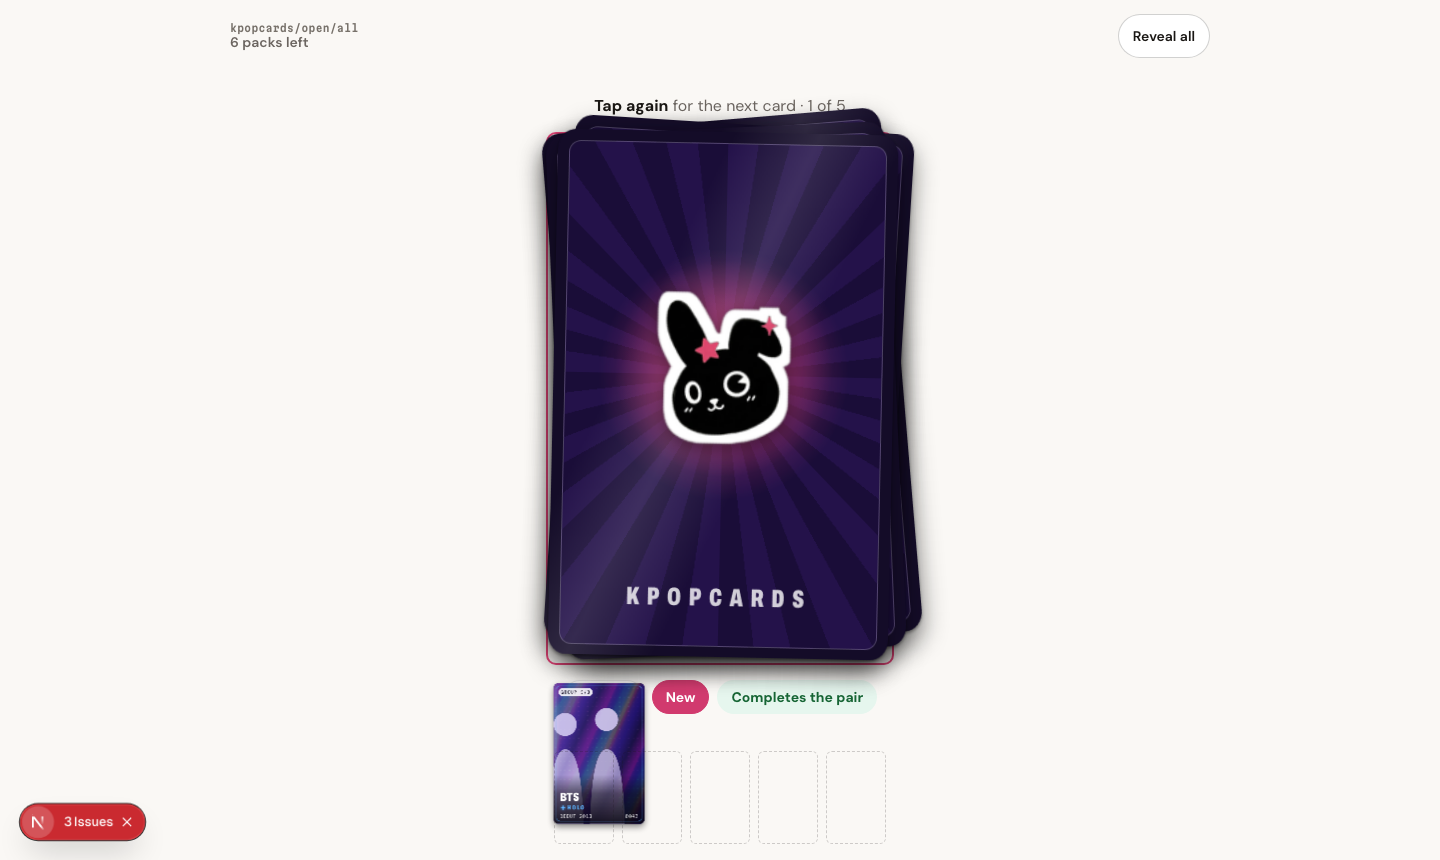
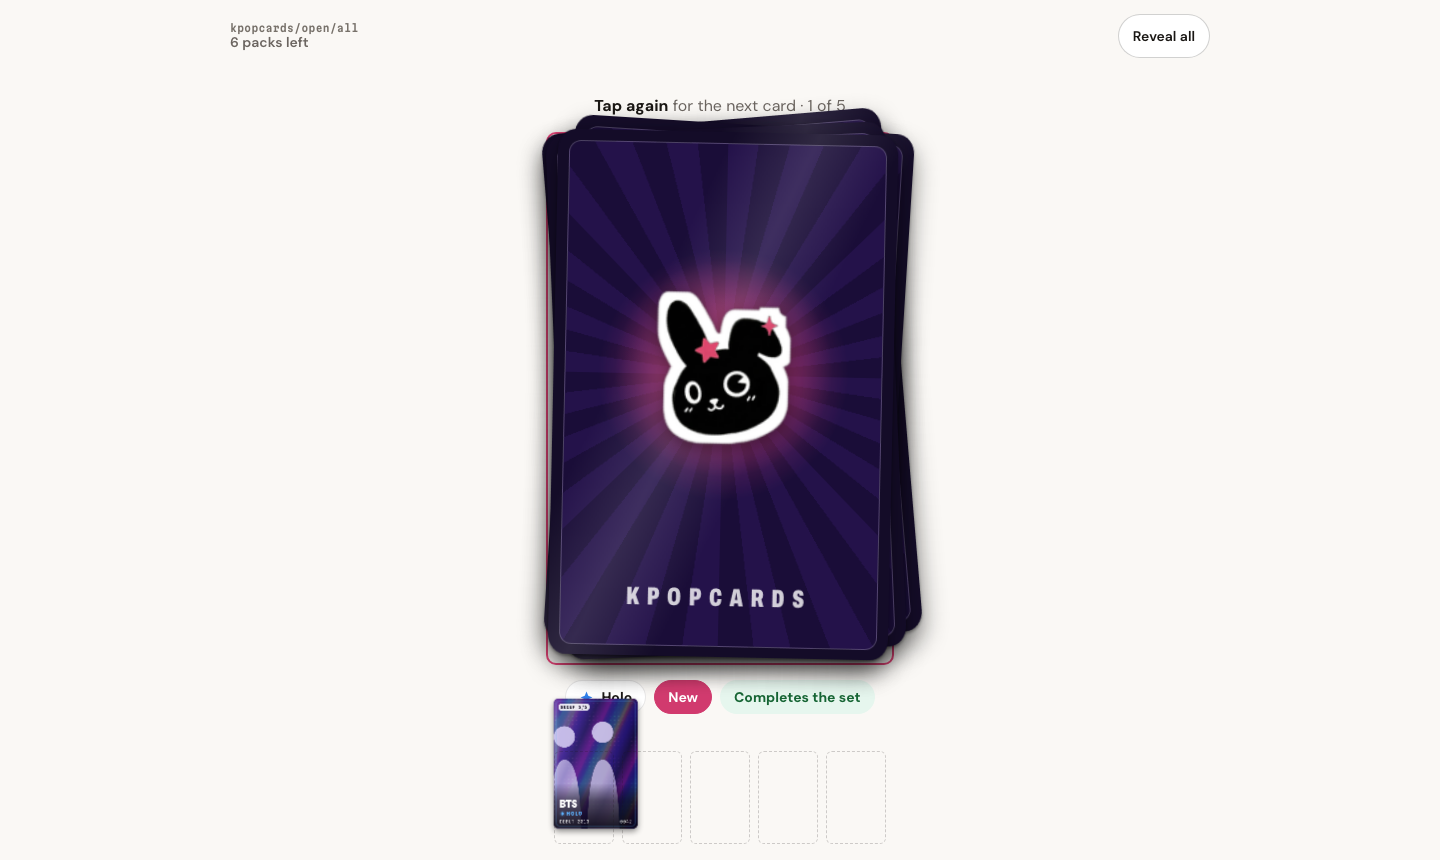
cards lot 7 UI: console clean-up, parts 1 to 3 on the hub group block, the wishlist line and the detail text; retaken screenshots
- pack opening: keys of the fan and of the pulled strip are now index plus card number (a pack can hold the same card twice: React 'two children with the same key', the source of the dev overlay issues).
- cards-bridge group.ts and cards-group-grid.tsx, friends-panel.tsx: a photo in 3 cards reads 1/3 to 3/3 (left, middle, right third; a box three tiles wide); pairs keep their exact output.
- detail: 'split into the two halves' becomes 'the three parts' for a photo in 3 (and 'two or three parts' when the editions differ). Exact test value changed: none (a pair keeps its text).
- admin: a disabled main button keeps a readable label.
- parts-sql.ts (SQL lane, from the merge): the regex held literal en and em dashes and failed the repo's dash test; written with escapes.
- screenshots retaken without the dev overlay.

Changed region(s): [[0.375, 0.786, 0.5938, 0.9674], [0.0, 0.907, 0.125, 0.9977]]

diff --git a/apps/quiz/src/components/cards-bridge/cards-group-grid.tsx b/apps/quiz/src/components/cards-bridge/cards-group-grid.tsx
@@ -3,6 +3,7 @@
 // Bunnyverse Cards, lane B, bridge 2: the grid of a group page. The server markup is what a guest sees (every card as a back); after hydration a
 // signed-in fan gets the cards they own in colour and the rest as backs. The count follows.
 import { groupCardsCount } from '@/lib/cards-bridge/copy';
+import { partLabel, partWord } from '@/lib/cards/ui-model';
 
 import { useCardsMe } from './use-cards-me';
 
@@ -22,16 +23,16 @@ export function CardsGroupGrid({ cards }: { cards: readonly GroupCard[] }): Reac
             <li key={c.n} className="cb-card" data-owned="1" title={`${c.name} ${c.num}`}>
               {/* eslint-disable-next-line @next/next/no-img-element */}
               {c.part && c.css ? (
-                // Lot 2: a half from the whole source photo: a box twice the tile wide, offset to its side.
-                <span className="cb-pair" data-part={c.part} style={{ left: c.part === 1 ? 0 : '-100%' }}>
-                  <img src={c.photoUrl} alt={`${c.name}, card ${c.num}, ${c.part === 1 ? 'left' : 'right'} half`} loading="lazy" width={168} height={130} style={{ objectPosition: `${c.focalX}% ${c.focalY}%` }} />
+                // Lot 2: a half from the whole source photo: a box twice the tile wide, offset to its side. Lot 7: a photo in 3 cards, a box three tiles wide.
+                <span className="cb-pair" data-part={c.part} style={{ left: c.part === 1 ? 0 : `-${(c.part - 1) * 100}%`, ...(c.parts === 3 ? { width: '300%' } : {}) }}>
+                  <img src={c.photoUrl} alt={`${c.name}, card ${c.num}, ${partWord(c)}`} loading="lazy" width={168} height={130} style={{ objectPosition: `${c.focalX}% ${c.focalY}%` }} />
                 </span>
               ) : (
-                <img src={c.photoUrl} alt={`${c.name}, card ${c.num}${c.part ? `, ${c.part === 1 ? 'left' : 'right'} half` : ''}`} loading="lazy" width={84} height={130} style={{ objectPosition: `${c.focalX}% ${c.focalY}%` }} />
+                <img src={c.photoUrl} alt={`${c.name}, card ${c.num}${c.part ? `, ${partWord(c)}` : ''}`} loading="lazy" width={84} height={130} style={{ objectPosition: `${c.focalX}% ${c.focalY}%` }} />
               )}
             </li>
           ) : (
-            <li key={c.n} className="cb-card is-missing" data-owned="0"><span>{c.num}{c.part ? ` · ${c.part}/2` : ''}</span></li>
+            <li key={c.n} className="cb-card is-missing" data-owned="0"><span>{c.num}{c.part ? ` · ${partLabel(c)}` : ''}</span></li>
           );
         })}
       </ul>

diff --git a/apps/quiz/src/lib/cards-bridge/group.ts b/apps/quiz/src/lib/cards-bridge/group.ts
@@ -23,7 +23,9 @@ export interface GroupCard {
   focalX: number;
   focalY: number;
   /** Lot 2: 1 or 2 for a half of a group photo (absent for a whole card). */
-  part?: 1 | 2;
+  part?: 1 | 2 | 3;
+  /** Lot 7: the number of cards of the photo (2 or 3), with `part`. Only set for a photo in 3 (absent reads as 2, as every pair did before lot 7). */
+  parts?: 2 | 3;
   /** Lot 2: with `part`, true when photoUrl is the whole source photo (no half file cut yet): the tile shows its half of the 11:8.5 window in CSS. */
   css?: boolean;
 }
@@ -52,7 +54,7 @@ export async function readGroupCards(slug: string, db: SupabaseClient = createSe
   const rows = cat.data as CatalogRow[];
   const ids = [...new Set(rows.flatMap((r) => (r.photo_id === null ? [] : [r.photo_id])))];
   const ph = ids.length
-    ? await db.from('cards_photos').select('id,focal_x,focal_y,storage_path,source_path,file_focal_x,file_focal_y,small_2x').in('id', ids).in('status', ['auto', 'approved']).limit(1000)
+    ? await db.from('cards_photos').select('*').in('id', ids).in('status', ['auto', 'approved']).limit(1000)
     : { data: [], error: null };
   if (ph.error) return [];
   const photos = new Map((ph.data as PhotoRow[]).map((p) => [p.id, p]));
@@ -62,8 +64,8 @@ export async function readGroupCards(slug: string, db: SupabaseClient = createSe
     const p = r.photo_id === null ? undefined : photos.get(r.photo_id);
     if (!p) return [];
     const img = cardImage(p, base, r);
-    // '*' so part and small_2x come once file 102 is applied; before it every row is a whole card.
-    return [{ n: r.card_no, num: r.num, name: names.get(r.entity_id) ?? '', rarity: r.rarity, photoUrl: img.url, focalX: img.focalX, focalY: img.focalY, ...(img.part === 1 || img.part === 2 ? { part: img.part, css: img.css === true } : {}) }];
+    // '*' (the catalog rows and the photos) so part, small_2x and, with file 118, parts and file_parts come once they exist; before, every row is a whole card or a pair.
+    return [{ n: r.card_no, num: r.num, name: names.get(r.entity_id) ?? '', rarity: r.rarity, photoUrl: img.url, focalX: img.focalX, focalY: img.focalY, ...(img.part === 1 || img.part === 2 || img.part === 3 ? { part: img.part, ...(img.parts === 3 ? { parts: 3 as const } : {}), css: img.css === true } : {}) }];
   });
 }
 

diff --git a/apps/quiz/src/components/cards/card-detail.tsx b/apps/quiz/src/components/cards/card-detail.tsx
@@ -88,6 +88,12 @@ function Moment({ n, owned }: { n: number; owned: boolean }): React.ReactElement
   );
 }
 
+/** Lot 7: how the editions' photos are split: the two halves of a pair, the three parts of a photo in 3 cards, or both when the editions differ. */
+export function splitWords(ladder: readonly Rung[]): string {
+  const sizes = new Set(ladder.flatMap((x) => (x.card ? [x.card.parts === 3 ? 3 : 2] : [])));
+  return sizes.size === 2 ? 'two or three parts' : sizes.has(3) ? 'the three parts' : 'the two halves';
+}
+
 /** The prototype's reason box under the ladder: why an idol or a group has fewer than six editions. */
 function reasonText(p: DetailProps): { title: string; text: string } | null {
   const have = p.ladder.filter((x) => x.card);
@@ -96,7 +102,7 @@ function reasonText(p: DetailProps): { title: string; text: string } | null {
   const top = n >= 1 ? RARITY_LABEL[have[n - 1]!.rarity] : '';
   const locked = p.ladder.find((x) => !x.card && x.reason && x.reason !== 'one');
   const why = locked?.reason ? `${LOCK_SENTENCES[locked.reason]} ` : '';
-  if (p.entityKind === 'group') return { title: `Why ${p.entityName} has ${n} editions`, text: `Each edition uses its own group photo, split into the two halves. ${p.entityName} has ${n} free group photos so far, so ${n} editions, Standard up to ${top}.` };
+  if (p.entityKind === 'group') return { title: `Why ${p.entityName} has ${n} editions`, text: `Each edition uses its own group photo, split into ${splitWords(p.ladder)}. ${p.entityName} has ${n} free group photos so far, so ${n} editions, Standard up to ${top}.` };
   return { title: `Why ${p.entityName} has ${n < 2 ? 'no cards yet' : `${n} editions`}`, text: n < 2 ? `Not in packs yet. ${p.entityName} has one free photo so far, and an idol joins packs with two. ${why}`.trim() : `Each edition uses its own free photo, from a different day. ${p.entityName} has ${n} so far, so ${n} editions, Standard up to ${top}. ${why}The next edition is issued as soon as another photo is approved.` };
 }
 

diff --git a/apps/quiz/src/components/cards/cards-pano.test.ts b/apps/quiz/src/components/cards/cards-pano.test.ts
@@ -161,3 +161,27 @@ describe('no dash in the new copy', () => {
     for (const f of files) expect(bad.test(readFileSync(join(__dirname, '../..', f), 'utf8')), f).toBe(false);
   });
 });
+
+describe('the other pages say 1/3 for a photo in 3 cards, never /2', () => {
+  it('the wishlist line', async () => {
+    const { wishText } = await import('./friends-panel');
+    const c = (part: 0 | 1 | 2 | 3, parts?: 2 | 3) => ({ n: part, num: 'BV1-0001', name: 'TWICE', edition: 'holo' as const, kind: 'group' as const, group: null, part, ...(parts ? { parts } : {}) });
+    expect(wishText([c(1, 3), c(3, 3), c(2, 2), c(0)])).toBe('TWICE 1/3, Holo · TWICE 3/3, Holo · TWICE 2/2, Holo · TWICE, Holo');
+  });
+  it('the group page of the hub: the tile of a missing part, from the group cards', async () => {
+    const { CardsGroupGrid } = await import('@/components/cards-bridge/cards-group-grid');
+    const base = { name: 'TWICE', rarity: 'R', photoUrl: 'https://p/a.jpg', focalX: 50, focalY: 50, css: true };
+    const html = renderToStaticMarkup(createElement(CardsGroupGrid, { cards: [{ ...base, n: 1, num: 'BV1-0001', part: 1, parts: 3 }, { ...base, n: 2, num: 'BV1-0002', part: 3, parts: 3 }, { ...base, n: 3, num: 'BV1-0003', part: 2 }] }));
+    expect(html).toContain('BV1-0001 · 1/3');
+    expect(html).toContain('BV1-0002 · 3/3');
+    expect(html).toContain('BV1-0003 · 2/2');
+    expect(html).not.toContain('1/2');
+  });
+  it('the detail text names the three parts of a photo in 3, keeps the halves for a pair, and says both when mixed', async () => {
+    const { splitWords } = await import('./card-detail');
+    const rung = (parts?: 2 | 3) => ({ rarity: 'C' as const, reason: null, anchor: 'x', card: { n: 1, parts } as unknown as SlimCard });
+    expect(splitWords([rung(3), rung(3)])).toBe('the three parts');
+    expect(splitWords([rung(), rung(2)])).toBe('the two halves');
+    expect(splitWords([rung(2), rung(3)])).toBe('two or three parts');
+  });
+});

diff --git a/apps/quiz/src/components/cards/pack-opening.tsx b/apps/quiz/src/components/cards/pack-opening.tsx
@@ -679,7 +679,7 @@ export function PackOpening({ cards, source, look = DEFAULT_LOOK, packs = 1, gol
             <div className={`fan${spot ? ' spot' : ''}`} id="fan" ref={fanRef} style={{ '--spot': SPOT_GLOW[bestRarity] } as Vars}>
               {rows.map((x, i) => (
                 <div
-                  key={x.card.n} className={`fc${i < 2 ? ' lft' : ''}${i === bestIdx ? ' best' : ''}`}
+                  key={`${i}-${x.card.n}`} className={`fc${i < 2 ? ' lft' : ''}${i === bestIdx ? ' best' : ''}`}
                   style={{ transform: `translateX(${(i - 2) * spreadPct}%) translateY(${Math.abs(i - 2) * 16}px) rotate(${(i - 2) * (narrow ? 7 : 9)}deg)`, zIndex: i === 2 ? 5 : 5 - Math.abs(i - 2) }}
                 >
                   {demo ? (
@@ -708,7 +708,7 @@ export function PackOpening({ cards, source, look = DEFAULT_LOOK, packs = 1, gol
         ) : null}
       </div>
       <div className="pulled" id="pulled" ref={pulledRef}>
-        {phase === 'summary' || multi ? null : slots.map((x, i) => (i < idx ? <div key={x.card.n} className="pop" style={{ position: 'relative' }}><CardFront card={x.card} /></div> : <i key={x.card.n} className="slot" />))}
+        {phase === 'summary' || multi ? null : slots.map((x, i) => (i < idx ? <div key={`${i}-${x.card.n}`} className="pop" style={{ position: 'relative' }}><CardFront card={x.card} /></div> : <i key={`${i}-${x.card.n}`} className="slot" />))}
       </div>
       <div className="ov-actions" id="ov-actions">
         {phase === 'summary' && demo ? (

diff --git a/apps/quiz/src/components/admin/photos/photos-admin.module.css b/apps/quiz/src/components/admin/photos/photos-admin.module.css
@@ -94,6 +94,8 @@
 .actions { display: flex; flex-wrap: wrap; gap: 8px; }
 .primary { flex: 1 1 200px; min-height: 48px; border-radius: 999px; border: 0; background: #1F1B17; color: #FAF8F5; font: inherit; font-weight: 800; font-size: 15px; cursor: pointer; padding: 0 18px; }
 .primary:disabled, .secondary:disabled { opacity: 0.45; cursor: not-allowed; }
+/* a disabled main button keeps a readable label (dark text on a light grey, about 6:1) instead of light text on a half-faded dark pill */
+.primary:disabled { opacity: 1; background: #E5E0DA; color: #57514B; }
 .secondary { min-height: 48px; padding: 0 18px; border-radius: 999px; border: 1.5px solid #E5E0DA; background: #FFFFFF; font: inherit; font-weight: 700; font-size: 15px; color: #1F1B17; cursor: pointer; }
 .danger { min-height: 48px; padding: 0 16px; border-radius: 999px; border: 1.5px solid #E5E0DA; background: #FFFFFF; font: inherit; font-weight: 700; font-size: 14px; color: #A3302B; cursor: pointer; }
 .note { font-size: 13px; line-height: 1.45; color: #57514B; margin: 0; }

diff --git a/apps/quiz/src/components/cards/friends-panel.tsx b/apps/quiz/src/components/cards/friends-panel.tsx
@@ -7,6 +7,7 @@ import { useCallback, useEffect, useRef, useState } from 'react';
 
 import { kcPath } from '@/lib/cards/kc-paths';
 import { RARITY_LABEL } from '@/lib/cards/rules';
+import { partLabel } from '@/lib/cards/ui-model';
 import { isApiError } from '@/lib/kpopcards/contract';
 import { newKey } from '@/lib/kpopcards/registry';
 
@@ -28,7 +29,7 @@ const WORDS: Record<string, string> = {
 };
 
 export function wishText(w: readonly CardRef[]): string {
-  return w.map((c) => `${c.name}${c.part ? ` ${c.part}/2` : ''}, ${edName(c.edition)}`).join(' · ');
+  return w.map((c) => `${c.name}${c.part ? ` ${partLabel(c)}` : ''}, ${edName(c.edition)}`).join(' · ');
 }
 
 export function FriendsPanel({ onChange }: { onChange?: () => void }): React.ReactElement {

diff --git a/apps/quiz/src/lib/cards/parts-sql.ts b/apps/quiz/src/lib/cards/parts-sql.ts
@@ -307,7 +307,7 @@ export function dataLiteral(data: PartsData): string {
     return { page: p.page, parts: p.parts, heads_box: heads, note: p.note, focal_from: xy(p.focal_from, `${at}.focal_from`), focal: xy(p.focal, `${at}.focal`),
       review: p.review, rejected: p.rejected, by: p.by };
   });
-  const json = JSON.stringify({ checked_on: data.checked_on, photos }).replace(/[–—]/g, (c) => `\\u${c.charCodeAt(0).toString(16).padStart(4, '0')}`);
+  const json = JSON.stringify({ checked_on: data.checked_on, photos }).replace(/[\u2013\u2014]/g, (c) => `\\u${c.charCodeAt(0).toString(16).padStart(4, '0')}`);
   if (json.includes('$parts$')) throw new Error('parts data: a text holds the quote $parts$');
   return json;
 }
